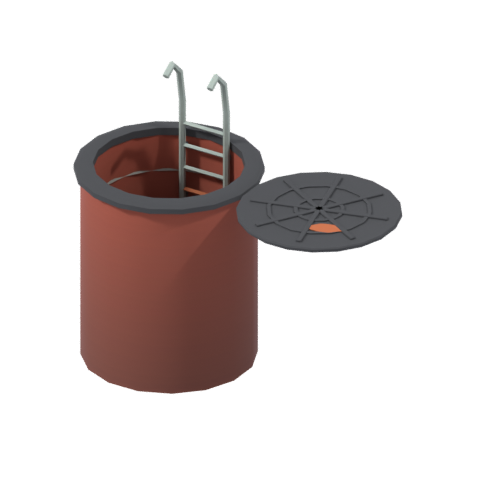
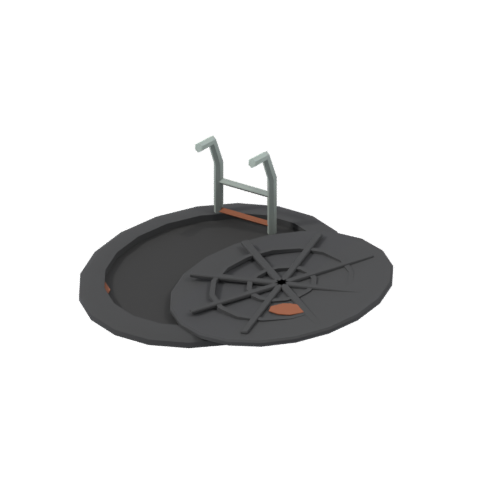
Props : égout ouvert (120) refait en 3 × 1 × 3, pièces Plaque et Echelle
Claude-Session: https://claude.ai/code/session_01GVDiQJg8HpZKiXgf33qydg

Changed region(s): [[0.1562, 0.125, 0.8438, 0.8438]]

diff --git a/tools/m_pirate.py b/tools/m_pirate.py
@@ -299,39 +299,24 @@ def cle_x5():
 # ---------------------------------------------------------------------------
 
 def egout_ouvert():
-    G = 3.0  # niveau de la chaussée au-dessus de la base
-    m = Model("egout_ouvert", (5.2, 4.4, 2.8), CAT, "Plaque d'égout ouverte avec échelle", None,
-              "Entrée des égouts ; chaussée à 3 studs au-dessus de la base (puits de 3 studs)")
-    c = m.part("Cadre")
-    c.lathe([(1.15, 0.0), (1.3, 0.0), (1.3, G), (1.15, G), (1.15, 0.0)], segs=16, c="brick_dark", cap0=False, cap1=False)
-    for z in (0.8, 1.6, 2.4):
-        c.torus(1.15, 0.025, at=(0, 0, z), c="concrete_dark", segs=16, sides=3)  # joints de briques
-    c.cyl(1.16, 0.05, c="soot", segs=16, bev=0)
-    c.cyl(1.15, 0.03, at=(0, 0, 0.25), c="olive", segs=16, bev=0)  # eau croupie
-    c.box(0.3, 0.2, 0.15, at=(-0.4, -0.3, 0.3), rot=(0, 20, 30), c="red", bev=0.02)  # canette qui flotte
-    c.lathe([(1.12, G - 0.02), (1.4, G - 0.02), (1.4, G + 0.06), (1.32, G + 0.1), (1.12, G + 0.1), (1.12, G - 0.02)], segs=18,
-            c="iron", cap0=False, cap1=False)
-    c.decal(0.6, 0.3, (0.0, -1.14, G - 0.4), c="mud", seed=40)
-    pq = m.part("Plaque")
-    px = 2.62
-    pq.cyl(1.22, 0.07, at=(px, -0.05, G), c="iron", segs=20, bev=0.02)
+    m = Model("egout_ouvert", (3, 1, 3), CAT, "Plaque d'égout ouverte avec échelle", None,
+              "Posée sur la chaussée ; trou noir (faux puits) à utiliser comme zone de téléportation")
+    p = m.part("Plaque")
+    p.lathe([(1.18, 0.0), (1.45, 0.0), (1.45, 0.06), (1.38, 0.1), (1.18, 0.1), (1.18, 0.0)], segs=20, c="iron", cap0=False, cap1=False)
+    p.cyl(1.19, 0.03, c="eye", segs=20, bev=0)  # trou noir
+    p.decal(0.5, 0.3, (-0.9, -0.85, 0.06), c="rust", rot=(90, 0, -40), t=0.01, seed=40)
+    cx = 0.95  # plaque à moitié poussée, posée de travers sur le bord du cadre
+    p.cyl(1.2, 0.07, at=(cx, -0.05, 0.1), rot=(0, -2.5, 0), c="iron", segs=20, bev=0.02)
     for r in (0.35, 0.75):
-        pq.torus(r, 0.04, at=(px, -0.05, G + 0.07), c="iron", segs=16, sides=4, sz=0.7)
+        p.torus(r, 0.04, at=(cx, -0.05, 0.18), c="iron", segs=16, sides=4, sz=0.7)
     for a in (15, 60, 105, 150):
-        pq.box(2.1, 0.08, 0.04, at=(px, -0.05, G + 0.08), rot=(0, 0, a), c="iron", bev=0.01)
-    pq.decal(0.6, 0.35, (px + 0.4, -0.5, G + 0.085), c="rust", rot=(90, 0, 30), t=0.01, seed=41)
+        p.box(2.1, 0.08, 0.04, at=(cx, -0.05, 0.19), rot=(0, 0, a), c="iron", bev=0.01)
+    p.decal(0.5, 0.3, (cx + 0.4, -0.45, 0.2), c="rust", rot=(90, 0, 30), t=0.01, seed=41)
     e = m.part("Echelle")
-    for x in (-0.38, 0.38):
-        e.pipe([(x, 0.98, 0.05), (x, 0.98, G + 0.6), (x, 0.9, G + 1.1), (x, 0.7, G + 1.3), (x, 0.52, G + 1.18)], 0.05, c="galva", sides=6)
-        for z in (0.8, 2.0, G - 0.2):
-            e.boxb(0.08, 0.2, 0.08, x, 1.1, z, c="metal_dark", bev=0.01)  # pattes de fixation
-    k = 0
-    z = 0.35
-    while z < G + 0.5:
-        e.rod((-0.38, 0.98, z), (0.38, 0.98, z), 0.035, c=("rust" if k in (2, 5) else "galva"), sides=4)
-        z += 0.36
-        k += 1
-    e.decal(0.2, 0.3, (0.38, 0.92, 1.4), c="rust", seed=42)
+    for x in (-0.36, 0.36):
+        e.pipe([(x - 0.35, 1.0, 0.02), (x - 0.35, 1.0, 0.65), (x - 0.35, 0.88, 0.95), (x - 0.35, 0.65, 0.98)], 0.05, c="galva", sides=6)
+    for z in (0.12, 0.45):
+        e.rod((-0.71, 1.0, z), (0.01, 1.0, z), 0.035, c=("rust" if z < 0.2 else "galva"), sides=4)
     return m
 
 

diff --git a/README.md b/README.md
@@ -18,7 +18,7 @@ Tous les modèles sont générés par script avec Blender (module Python `bpy`),
 | Pièces séparées | Tout ce qui bouge ou s'allume est une pièce nommée : `Couvercle`, `Porte…`, `Ampoule`, `Flammes`, `Vitre(s)`, `Ecran`, `Neon`, `Lumiere`, `Phares`, `Roue_AvG`… Les pièces mobiles ont leur origine sur la charnière ou l'axe. |
 | Quête (96–99) | Les pièces `Lueur` des fragments sont des halos qui enveloppent l'objet : les passer en `Material = Neon`, `Transparency ≈ 0,6`. La clé finie et le point d'interrogation sont en couleurs propres, sans dégradé de crasse. Seul texte du pack : « x2 » gravé sur la tige de la clé, demandé explicitement. |
 | Machine à sous (100–112) | Couleurs propres. `Yeux` du loup, `Gemme` (blanche, à recolorer en néon Mini/Minor/Major/Grand) et `Contour` du Bonus Token sont des pièces séparées à passer en Neon. |
-| Pirate (114–120) | `Lueur` de la planche flottée et de la moisissure : halos à passer en Neon transparent. Clé x5 en couleurs propres, « x5 » gravé à la demande. Égout ouvert (120) : la chaussée est à 3 studs au-dessus de la base ; il faut un trou dans la route (Negate) pour voir le puits. |
+| Pirate (114–120) | `Lueur` de la planche flottée et de la moisissure : halos à passer en Neon transparent. Clé x5 en couleurs propres, « x5 » gravé à la demande. Égout ouvert (120) : posé à plat sur la chaussée, trou noir à utiliser comme zone de téléportation. |
 | Enseignes | Aucun texte : panneaux, ardoises, menus et le panneau « EN PANNE » sont des surfaces vierges à habiller en jeu. |
 
 ## Import dans Roblox Studio
@@ -81,7 +81,7 @@ python3 tools/readme_table.py       # met à jour le tableau ci-dessous
 | 118 | Radeau de fortune | 8 × 6 × 6 | 2560 | Planches, Cordes, Mat, Voile | [118_radeau.fbx](models/09_pirate/118_radeau.fbx) |
 | 119 | Clé dorée « x5 » | 1,2 × 3 × 0,4 | 1376 | Anneau, Tige, Panneton, Ancre | [119_cle_x5_ancre.fbx](models/09_pirate/119_cle_x5_ancre.fbx) |
 | 11 | Transformateur sur poteau | 1,8 × 2,6 × 1,8 | 1020 | Transformateur | [11_transformateur.fbx](models/01_rue/11_transformateur.fbx) |
-| 120 | Plaque d'égout ouverte avec échelle | 5,2 × 4,4 × 2,8 | 1940 | Cadre, Plaque, Echelle | [120_egout_ouvert.fbx](models/09_pirate/120_egout_ouvert.fbx) |
+| 120 | Plaque d'égout ouverte avec échelle | 3 × 1 × 3 | 1048 | Plaque, Echelle | [120_egout_ouvert.fbx](models/09_pirate/120_egout_ouvert.fbx) |
 | 12 | Haut-parleur pavillon | 1,6 × 1,3 × 1,3 | 444 | HautParleur | [12_haut_parleur.fbx](models/01_rue/12_haut_parleur.fbx) |
 | 13 | Sacs de sable empilés | 2,4 × 1 × 1,4 | 308 | Sacs | [13_sacs_sable.fbx](models/01_rue/13_sacs_sable.fbx) |
 | 14 | Clôture grillagée avec barbelés | 8 × 6 × 0,3 | 1434 | Poteaux, Grillage, Barbele | [14_cloture_grillagee.fbx](models/01_rue/14_cloture_grillagee.fbx) |
